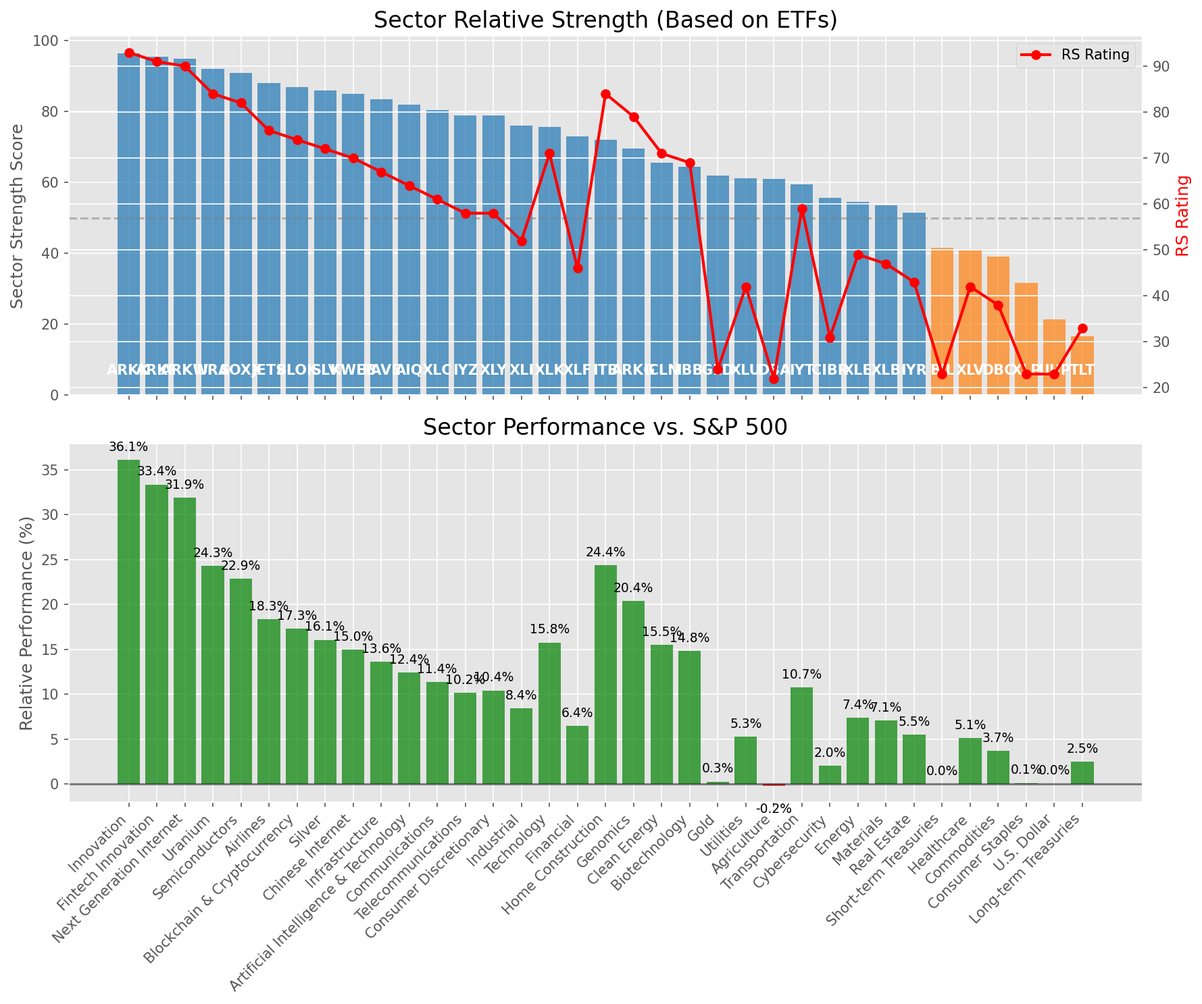
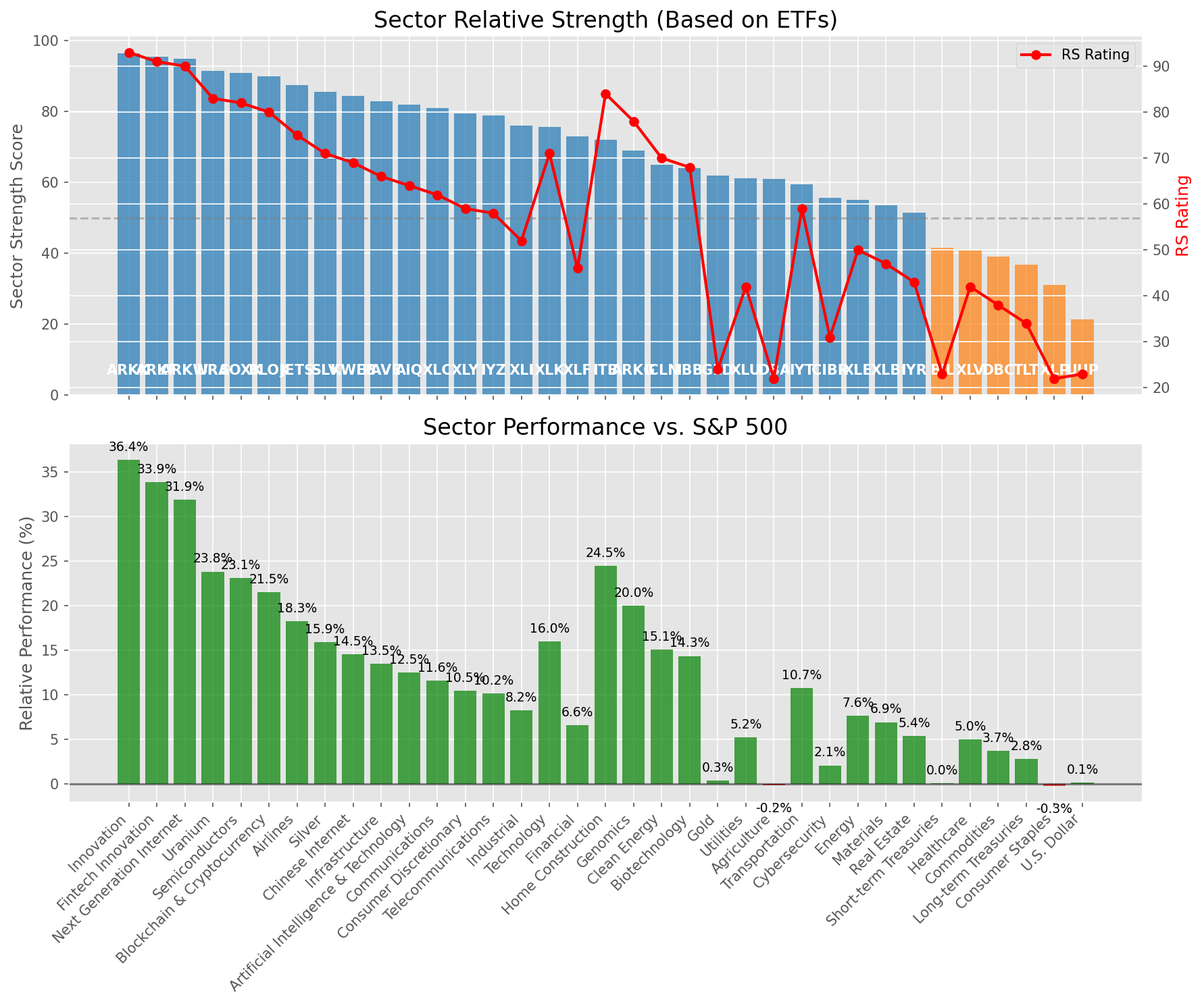
Add market report for 2025-08-25

diff --git a/oneil_relative_strength_report_2025-08-25.md b/oneil_relative_strength_report_2025-08-25.md
@@ -9,11 +9,11 @@
 | Metric | Value |
 |--------|-------|
 | **Market Valuation** | **Overvalued** |
-| **Current Ratio** | 10.47 |
+| **Current Ratio** | 10.48 |
 | **Historical Mean** | 9.89 |
 | **Standard Deviation** | 0.40 |
 | **Z-Score (StdDev from Mean)** | 1.49 |
-| **Total Market Cap** | $317.55 trillion |
+| **Total Market Cap** | $317.78 trillion |
 | **GDP** | $30.33 trillion |
 
 ## **Market Insights**
@@ -49,41 +49,41 @@ Based on William O'Neil's Relative Strength Methodology
 
 | ETF | Strength | RS Rating | Performance | Above Key MAs | Trend | Sector |
 |-----|----------|-----------|-------------|--------------|-------|--------|
-| [ARKK](https://www.tradingview.com/chart/?symbol=ARKK) | 96.5 | 93.0 | 36.13% | 10d ✓, 50d ✓, 200d ✓ | ↗ | Innovation |
-| [ARKF](https://www.tradingview.com/chart/?symbol=ARKF) | 95.5 | 91.0 | 33.37% | 10d ✓, 50d ✓, 200d ✓ | ↗ | Fintech Innovation |
+| [ARKK](https://www.tradingview.com/chart/?symbol=ARKK) | 96.5 | 93.0 | 36.40% | 10d ✓, 50d ✓, 200d ✓ | ↗ | Innovation |
+| [ARKF](https://www.tradingview.com/chart/?symbol=ARKF) | 95.5 | 91.0 | 33.91% | 10d ✓, 50d ✓, 200d ✓ | ↗ | Fintech Innovation |
 | [ARKW](https://www.tradingview.com/chart/?symbol=ARKW) | 95.0 | 90.0 | 31.90% | 10d ✓, 50d ✓, 200d ✓ | ↗ | Next Generation Internet |
-| [URA](https://www.tradingview.com/chart/?symbol=URA) | 92.0 | 84.0 | 24.29% | 10d ✓, 50d ✓, 200d ✓ | ↗ | Uranium |
-| [SOXX](https://www.tradingview.com/chart/?symbol=SOXX) | 91.0 | 82.0 | 22.85% | 10d ✓, 50d ✓, 200d ✓ | ↗ | Semiconductors |
-| [JETS](https://www.tradingview.com/chart/?symbol=JETS) | 88.0 | 76.0 | 18.34% | 10d ✓, 50d ✓, 200d ✓ | ↗ | Airlines |
-| [BLOK](https://www.tradingview.com/chart/?symbol=BLOK) | 87.0 | 74.0 | 17.28% | 10d ✓, 50d ✓, 200d ✓ | ↗ | Blockchain & Cryptocurrency |
-| [SLV](https://www.tradingview.com/chart/?symbol=SLV) | 86.0 | 72.0 | 16.06% | 10d ✓, 50d ✓, 200d ✓ | ↗ | Silver |
-| [KWEB](https://www.tradingview.com/chart/?symbol=KWEB) | 85.0 | 70.0 | 14.99% | 10d ✓, 50d ✓, 200d ✓ | ↗ | Chinese Internet |
-| [PAVE](https://www.tradingview.com/chart/?symbol=PAVE) | 83.5 | 67.0 | 13.59% | 10d ✓, 50d ✓, 200d ✓ | ↗ | Infrastructure |
-| [AIQ](https://www.tradingview.com/chart/?symbol=AIQ) | 82.0 | 64.0 | 12.42% | 10d ✓, 50d ✓, 200d ✓ | ↗ | Artificial Intelligence & Technology |
-| [XLC](https://www.tradingview.com/chart/?symbol=XLC) | 80.5 | 61.0 | 11.36% | 10d ✓, 50d ✓, 200d ✓ | ↗ | Communications |
+| [URA](https://www.tradingview.com/chart/?symbol=URA) | 91.5 | 83.0 | 23.83% | 10d ✓, 50d ✓, 200d ✓ | ↗ | Uranium |
+| [SOXX](https://www.tradingview.com/chart/?symbol=SOXX) | 91.0 | 82.0 | 23.08% | 10d ✓, 50d ✓, 200d ✓ | ↗ | Semiconductors |
+| [BLOK](https://www.tradingview.com/chart/?symbol=BLOK) | 90.0 | 80.0 | 21.51% | 10d ✓, 50d ✓, 200d ✓ | ↗ | Blockchain & Cryptocurrency |
+| [JETS](https://www.tradingview.com/chart/?symbol=JETS) | 87.5 | 75.0 | 18.27% | 10d ✓, 50d ✓, 200d ✓ | ↗ | Airlines |
+| [SLV](https://www.tradingview.com/chart/?symbol=SLV) | 85.5 | 71.0 | 15.88% | 10d ✓, 50d ✓, 200d ✓ | ↗ | Silver |
+| [KWEB](https://www.tradingview.com/chart/?symbol=KWEB) | 84.5 | 69.0 | 14.53% | 10d ✓, 50d ✓, 200d ✓ | ↗ | Chinese Internet |
+| [PAVE](https://www.tradingview.com/chart/?symbol=PAVE) | 83.0 | 66.0 | 13.46% | 10d ✓, 50d ✓, 200d ✓ | ↗ | Infrastructure |
+| [AIQ](https://www.tradingview.com/chart/?symbol=AIQ) | 82.0 | 64.0 | 12.49% | 10d ✓, 50d ✓, 200d ✓ | ↗ | Artificial Intelligence & Technology |
+| [XLC](https://www.tradingview.com/chart/?symbol=XLC) | 81.0 | 62.0 | 11.60% | 10d ✓, 50d ✓, 200d ✓ | ↗ | Communications |
+| [XLY](https://www.tradingview.com/chart/?symbol=XLY) | 79.5 | 59.0 | 10.46% | 10d ✓, 50d ✓, 200d ✓ | ↗ | Consumer Discretionary |
 | [IYZ](https://www.tradingview.com/chart/?symbol=IYZ) | 79.0 | 58.0 | 10.16% | 10d ✓, 50d ✓, 200d ✓ | ↗ | Telecommunications |
-| [XLY](https://www.tradingview.com/chart/?symbol=XLY) | 79.0 | 58.0 | 10.42% | 10d ✓, 50d ✓, 200d ✓ | ↗ | Consumer Discretionary |
-| [XLI](https://www.tradingview.com/chart/?symbol=XLI) | 76.0 | 52.0 | 8.45% | 10d ✓, 50d ✓, 200d ✓ | ↗ | Industrial |
-| [XLK](https://www.tradingview.com/chart/?symbol=XLK) | 75.6 | 71.0 | 15.76% | 10d ✗, 50d ✓, 200d ✓ | ↗ | Technology |
-| [XLF](https://www.tradingview.com/chart/?symbol=XLF) | 73.0 | 46.0 | 6.44% | 10d ✓, 50d ✓, 200d ✓ | ↗ | Financial |
-| [ITB](https://www.tradingview.com/chart/?symbol=ITB) | 72.0 | 84.0 | 24.39% | 10d ✓, 50d ✓, 200d ✓ | ↘ | Home Construction |
-| [ARKG](https://www.tradingview.com/chart/?symbol=ARKG) | 69.5 | 79.0 | 20.36% | 10d ✓, 50d ✓, 200d ✓ | ↘ | Genomics |
-| [ICLN](https://www.tradingview.com/chart/?symbol=ICLN) | 65.5 | 71.0 | 15.50% | 10d ✓, 50d ✓, 200d ✓ | ↘ | Clean Energy |
-| [IBB](https://www.tradingview.com/chart/?symbol=IBB) | 64.5 | 69.0 | 14.81% | 10d ✓, 50d ✓, 200d ✓ | ↘ | Biotechnology |
-| [GLD](https://www.tradingview.com/chart/?symbol=GLD) | 62.0 | 24.0 | 0.27% | 10d ✓, 50d ✓, 200d ✓ | ↗ | Gold |
-| [XLU](https://www.tradingview.com/chart/?symbol=XLU) | 61.1 | 42.0 | 5.27% | 10d ✗, 50d ✓, 200d ✓ | ↗ | Utilities |
+| [XLI](https://www.tradingview.com/chart/?symbol=XLI) | 76.0 | 52.0 | 8.22% | 10d ✓, 50d ✓, 200d ✓ | ↗ | Industrial |
+| [XLK](https://www.tradingview.com/chart/?symbol=XLK) | 75.6 | 71.0 | 15.99% | 10d ✗, 50d ✓, 200d ✓ | ↗ | Technology |
+| [XLF](https://www.tradingview.com/chart/?symbol=XLF) | 73.0 | 46.0 | 6.60% | 10d ✓, 50d ✓, 200d ✓ | ↗ | Financial |
+| [ITB](https://www.tradingview.com/chart/?symbol=ITB) | 72.0 | 84.0 | 24.48% | 10d ✓, 50d ✓, 200d ✓ | ↘ | Home Construction |
+| [ARKG](https://www.tradingview.com/chart/?symbol=ARKG) | 69.0 | 78.0 | 19.98% | 10d ✓, 50d ✓, 200d ✓ | ↘ | Genomics |
+| [ICLN](https://www.tradingview.com/chart/?symbol=ICLN) | 65.0 | 70.0 | 15.06% | 10d ✓, 50d ✓, 200d ✓ | ↘ | Clean Energy |
+| [IBB](https://www.tradingview.com/chart/?symbol=IBB) | 64.0 | 68.0 | 14.34% | 10d ✓, 50d ✓, 200d ✓ | ↘ | Biotechnology |
+| [GLD](https://www.tradingview.com/chart/?symbol=GLD) | 62.0 | 24.0 | 0.32% | 10d ✓, 50d ✓, 200d ✓ | ↗ | Gold |
+| [XLU](https://www.tradingview.com/chart/?symbol=XLU) | 61.1 | 42.0 | 5.21% | 10d ✗, 50d ✓, 200d ✓ | ↗ | Utilities |
 | [DBA](https://www.tradingview.com/chart/?symbol=DBA) | 61.0 | 22.0 | -0.22% | 10d ✓, 50d ✓, 200d ✓ | ↗ | Agriculture |
 | [IYT](https://www.tradingview.com/chart/?symbol=IYT) | 59.5 | 59.0 | 10.75% | 10d ✓, 50d ✓, 200d ✓ | ↘ | Transportation |
-| [CIBR](https://www.tradingview.com/chart/?symbol=CIBR) | 55.6 | 31.0 | 2.03% | 10d ✓, 50d ✗, 200d ✓ | ↗ | Cybersecurity |
-| [XLE](https://www.tradingview.com/chart/?symbol=XLE) | 54.5 | 49.0 | 7.39% | 10d ✓, 50d ✓, 200d ✓ | ↘ | Energy |
-| [XLB](https://www.tradingview.com/chart/?symbol=XLB) | 53.5 | 47.0 | 7.07% | 10d ✓, 50d ✓, 200d ✓ | ↘ | Materials |
-| [IYR](https://www.tradingview.com/chart/?symbol=IYR) | 51.5 | 43.0 | 5.48% | 10d ✓, 50d ✓, 200d ✓ | ↘ | Real Estate |
+| [CIBR](https://www.tradingview.com/chart/?symbol=CIBR) | 55.6 | 31.0 | 2.05% | 10d ✓, 50d ✗, 200d ✓ | ↗ | Cybersecurity |
+| [XLE](https://www.tradingview.com/chart/?symbol=XLE) | 55.0 | 50.0 | 7.61% | 10d ✓, 50d ✓, 200d ✓ | ↘ | Energy |
+| [XLB](https://www.tradingview.com/chart/?symbol=XLB) | 53.5 | 47.0 | 6.91% | 10d ✓, 50d ✓, 200d ✓ | ↘ | Materials |
+| [IYR](https://www.tradingview.com/chart/?symbol=IYR) | 51.5 | 43.0 | 5.37% | 10d ✓, 50d ✓, 200d ✓ | ↘ | Real Estate |
 | [BIL](https://www.tradingview.com/chart/?symbol=BIL) | 41.5 | 23.0 | 0.01% | 10d ✓, 50d ✓, 200d ✓ | ↘ | Short-term Treasuries |
-| [XLV](https://www.tradingview.com/chart/?symbol=XLV) | 40.8 | 42.0 | 5.14% | 10d ✓, 50d ✓, 200d ✗ | ↘ | Healthcare |
+| [XLV](https://www.tradingview.com/chart/?symbol=XLV) | 40.8 | 42.0 | 4.98% | 10d ✓, 50d ✓, 200d ✗ | ↘ | Healthcare |
 | [DBC](https://www.tradingview.com/chart/?symbol=DBC) | 39.1 | 38.0 | 3.71% | 10d ✓, 50d ✗, 200d ✓ | ↘ | Commodities |
-| [XLP](https://www.tradingview.com/chart/?symbol=XLP) | 31.6 | 23.0 | 0.12% | 10d ✗, 50d ✓, 200d ✓ | ↘ | Consumer Staples |
-| [UUP](https://www.tradingview.com/chart/?symbol=UUP) | 21.4 | 23.0 | 0.04% | 10d ✗, 50d ✓, 200d ✗ | ↘ | U.S. Dollar |
-| [TLT](https://www.tradingview.com/chart/?symbol=TLT) | 16.5 | 33.0 | 2.50% | 10d ✗, 50d ✗, 200d ✗ | ↘ | Long-term Treasuries |
+| [TLT](https://www.tradingview.com/chart/?symbol=TLT) | 36.8 | 34.0 | 2.79% | 10d ✓, 50d ✓, 200d ✗ | ↘ | Long-term Treasuries |
+| [XLP](https://www.tradingview.com/chart/?symbol=XLP) | 31.1 | 22.0 | -0.26% | 10d ✗, 50d ✓, 200d ✓ | ↘ | Consumer Staples |
+| [UUP](https://www.tradingview.com/chart/?symbol=UUP) | 21.4 | 23.0 | 0.15% | 10d ✗, 50d ✓, 200d ✗ | ↘ | U.S. Dollar |
 
 ### **Sector ETF Performance Interpretation**
 
@@ -100,184 +100,181 @@ This table shows the relative strength metrics for different market sectors base
 
 The current market leadership is coming from the following sectors: **Innovation, Fintech Innovation, Next Generation Internet**.
 
-The **Innovation** sector (represented by **ARKK**) is showing particularly strong relative strength with an RS rating of 93.0 and performance of 36.13% vs. the S&P 500. This sector is trading above its 10-day, 50-day, 200-day moving average(s). Investors should consider focusing on high RS stocks within these leading sectors for potential outperformance.
+The **Innovation** sector (represented by **ARKK**) is showing particularly strong relative strength with an RS rating of 93.0 and performance of 36.40% vs. the S&P 500. This sector is trading above its 10-day, 50-day, 200-day moving average(s). Investors should consider focusing on high RS stocks within these leading sectors for potential outperformance.
 
 ---
 
 ## **Buy Recommendations**
 
-The following 49 stocks show exceptional relative strength:
+The following 47 stocks show exceptional relative strength:
 
 | RS Rating | Buy Score | Current Price | Chart | Name | Ticker |
 |-----------|-----------|---------------|-------|------|--------|
-| 100 | 100 | $116.47 | [Chart](https://www.tradingview.com/chart/?symbol=CRDO) | Credo Technology Group Holding Ltd Ordinary Shares | CRDO |
-| 100 | 100 | $68.27 | [Chart](https://www.tradingview.com/chart/?symbol=KTOS) | Kratos Defense & Security Solutions, Inc. | KTOS |
-| 100 | 100 | $47.55 | [Chart](https://www.tradingview.com/chart/?symbol=RKLB) | Rocket Lab Corporation Common Stock | RKLB |
-| 99 | 100 | $59.97 | [Chart](https://www.tradingview.com/chart/?symbol=TPC) | Tutor Perini Corporation | TPC |
-| 99 | 100 | $26.41 | [Chart](https://www.tradingview.com/chart/?symbol=LQDA) | Liquidia Corporation Common Stock | LQDA |
-| 99 | 100 | $196.26 | [Chart](https://www.tradingview.com/chart/?symbol=FUTU) | Futu Holdings Limited American Depositary Shares | FUTU |
+| 100 | 100 | $67.14 | [Chart](https://www.tradingview.com/chart/?symbol=KTOS) | Kratos Defense & Security Solutions, Inc. | KTOS |
+| 100 | 100 | $115.90 | [Chart](https://www.tradingview.com/chart/?symbol=CRDO) | Credo Technology Group Holding Ltd Ordinary Shares | CRDO |
+| 100 | 100 | $48.95 | [Chart](https://www.tradingview.com/chart/?symbol=RKLB) | Rocket Lab Corporation Common Stock | RKLB |
+| 99 | 100 | $195.40 | [Chart](https://www.tradingview.com/chart/?symbol=FUTU) | Futu Holdings Limited American Depositary Shares | FUTU |
+| 99 | 100 | $60.18 | [Chart](https://www.tradingview.com/chart/?symbol=CELH) | Celsius Holdings, Inc. Common Stock | CELH |
+| 99 | 100 | $59.09 | [Chart](https://www.tradingview.com/chart/?symbol=TPC) | Tutor Perini Corporation | TPC |
+| 99 | 100 | $26.78 | [Chart](https://www.tradingview.com/chart/?symbol=LQDA) | Liquidia Corporation Common Stock | LQDA |
 | 98 | 100 | $198.98 | [Chart](https://www.tradingview.com/chart/?symbol=COOP) | Mr. Cooper Group Inc. Common Stock | COOP |
-| 98 | 100 | $44.89 | [Chart](https://www.tradingview.com/chart/?symbol=TTMI) | TTM Technologies Inc | TTMI |
-| 97 | 100 | $90.22 | [Chart](https://www.tradingview.com/chart/?symbol=LIF) | Life360, Inc. Common Stock | LIF |
-| 97 | 100 | $125.81 | [Chart](https://www.tradingview.com/chart/?symbol=RBLX) | Roblox Corporation | RBLX |
-| 96 | 100 | $346.32 | [Chart](https://www.tradingview.com/chart/?symbol=RCL) | Royal Caribbean Group | RCL |
+| 98 | 100 | $44.74 | [Chart](https://www.tradingview.com/chart/?symbol=TTMI) | TTM Technologies Inc | TTMI |
+| 98 | 100 | $126.97 | [Chart](https://www.tradingview.com/chart/?symbol=RBLX) | Roblox Corporation | RBLX |
+| 96 | 100 | $90.01 | [Chart](https://www.tradingview.com/chart/?symbol=LIF) | Life360, Inc. Common Stock | LIF |
 | 96 | 100 | $34.18 | [Chart](https://www.tradingview.com/chart/?symbol=CPS) | Cooper-Standard Automotive Inc. | CPS |
+| 95 | 100 | $346.56 | [Chart](https://www.tradingview.com/chart/?symbol=RCL) | Royal Caribbean Group | RCL |
 | 95 | 100 | $66.83 | [Chart](https://www.tradingview.com/chart/?symbol=MRCY) | Mercury Systems Inc. | MRCY |
 | 94 | 100 | $56.59 | [Chart](https://www.tradingview.com/chart/?symbol=BBW) | Build-A-Bear Workshop, Inc. | BBW |
-| 94 | 100 | $32.11 | [Chart](https://www.tradingview.com/chart/?symbol=GFI) | Gold Fields Ltd ADR | GFI |
-| 94 | 100 | $60.44 | [Chart](https://www.tradingview.com/chart/?symbol=VIK) | Viking Holdings Ltd | VIK |
-| 93 | 100 | $37.41 | [Chart](https://www.tradingview.com/chart/?symbol=DB) | Deutsche Bank Aktiengesellschaft | DB |
+| 94 | 100 | $31.82 | [Chart](https://www.tradingview.com/chart/?symbol=GFI) | Gold Fields Ltd ADR | GFI |
+| 94 | 100 | $60.70 | [Chart](https://www.tradingview.com/chart/?symbol=VIK) | Viking Holdings Ltd | VIK |
+| 94 | 100 | $116.19 | [Chart](https://www.tradingview.com/chart/?symbol=SANM) | Sanmina  Corp | SANM |
 | 93 | 100 | $98.91 | [Chart](https://www.tradingview.com/chart/?symbol=TPB) | Turning Point Brands, Inc. | TPB |
-| 92 | 100 | $32.68 | [Chart](https://www.tradingview.com/chart/?symbol=PAAS) | Pan American Silver Corp. | PAAS |
-| 92 | 100 | $30.27 | [Chart](https://www.tradingview.com/chart/?symbol=ACMR) | ACM Research, Inc. Class A Common Stock | ACMR |
-| 92 | 100 | $32.08 | [Chart](https://www.tradingview.com/chart/?symbol=SRAD) | Sportradar Group AG Class A Ordinary Shares | SRAD |
-| 91 | 100 | $23.05 | [Chart](https://www.tradingview.com/chart/?symbol=BZ) | KANZHUN LIMITED American Depository Shares | BZ |
+| 93 | 100 | $37.30 | [Chart](https://www.tradingview.com/chart/?symbol=DB) | Deutsche Bank Aktiengesellschaft | DB |
+| 92 | 100 | $32.48 | [Chart](https://www.tradingview.com/chart/?symbol=PAAS) | Pan American Silver Corp. | PAAS |
 | 91 | 100 | $75.38 | [Chart](https://www.tradingview.com/chart/?symbol=WNS) | WNS (Holdings) Limited | WNS |
-| 91 | 100 | $54.12 | [Chart](https://www.tradingview.com/chart/?symbol=ARKF) | ARK Fintech Innovation ETF | ARKF |
+| 91 | 100 | $29.95 | [Chart](https://www.tradingview.com/chart/?symbol=ACMR) | ACM Research, Inc. Class A Common Stock | ACMR |
+| 91 | 100 | $54.34 | [Chart](https://www.tradingview.com/chart/?symbol=ARKF) | ARK Fintech Innovation ETF | ARKF |
+| 91 | 100 | $31.86 | [Chart](https://www.tradingview.com/chart/?symbol=SRAD) | Sportradar Group AG Class A Ordinary Shares | SRAD |
 | 90 | 100 | $158.31 | [Chart](https://www.tradingview.com/chart/?symbol=ARKW) | ARK Next Generation Internet ETF | ARKW |
-| 89 | 100 | $95.13 | [Chart](https://www.tradingview.com/chart/?symbol=C) | Citigroup Inc. | C |
+| 89 | 100 | $95.41 | [Chart](https://www.tradingview.com/chart/?symbol=C) | Citigroup Inc. | C |
 | 88 | 100 | $167.00 | [Chart](https://www.tradingview.com/chart/?symbol=VSEC) | VSE Corp | VSEC |
-| 88 | 100 | $58.31 | [Chart](https://www.tradingview.com/chart/?symbol=BTI) | British American Tobacco p.l.c. American Depositary Shares, American Depositary Shares, each representing one Ordinary Share | BTI |
-| 87 | 100 | $48.17 | [Chart](https://www.tradingview.com/chart/?symbol=LTM) | LATAM Airlines Group S.A. American Depositary Shares (each representing two thousand (2,000) shares of Common Stock) | LTM |
-| 90 | 99 | $17.45 | [Chart](https://www.tradingview.com/chart/?symbol=ARLO) | Arlo Technologies, Inc. | ARLO |
-| 88 | 98 | $55.38 | [Chart](https://www.tradingview.com/chart/?symbol=SIL) | Global X Silver Miners ETF (NEW) | SIL |
-| 87 | 98 | $24.11 | [Chart](https://www.tradingview.com/chart/?symbol=EYE) | National Vision Holdings, Inc. Common Stock | EYE |
+| 87 | 100 | $48.01 | [Chart](https://www.tradingview.com/chart/?symbol=LTM) | LATAM Airlines Group S.A. American Depositary Shares (each representing two thousand (2,000) shares of Common Stock) | LTM |
+| 88 | 99 | $24.23 | [Chart](https://www.tradingview.com/chart/?symbol=EYE) | National Vision Holdings, Inc. Common Stock | EYE |
+| 87 | 99 | $57.97 | [Chart](https://www.tradingview.com/chart/?symbol=BTI) | British American Tobacco p.l.c. American Depositary Shares, American Depositary Shares, each representing one Ordinary Share | BTI |
+| 89 | 98 | $17.38 | [Chart](https://www.tradingview.com/chart/?symbol=ARLO) | Arlo Technologies, Inc. | ARLO |
+| 89 | 98 | $22.80 | [Chart](https://www.tradingview.com/chart/?symbol=BZ) | KANZHUN LIMITED American Depository Shares | BZ |
+| 88 | 98 | $55.16 | [Chart](https://www.tradingview.com/chart/?symbol=SIL) | Global X Silver Miners ETF (NEW) | SIL |
 | 85 | 98 | $51.19 | [Chart](https://www.tradingview.com/chart/?symbol=RING) | iShares MSCI Global Gold Miners ETF | RING |
-| 86 | 97 | $23.71 | [Chart](https://www.tradingview.com/chart/?symbol=MAG) | MAG Silver Corp. | MAG |
-| 84 | 97 | $42.59 | [Chart](https://www.tradingview.com/chart/?symbol=AHR) | American Healthcare REIT, Inc. | AHR |
-| 86 | 96 | $197.24 | [Chart](https://www.tradingview.com/chart/?symbol=AWI) | Armstrong World Industries, Inc. | AWI |
+| 87 | 97 | $197.24 | [Chart](https://www.tradingview.com/chart/?symbol=AWI) | Armstrong World Industries, Inc. | AWI |
+| 86 | 97 | $23.58 | [Chart](https://www.tradingview.com/chart/?symbol=MAG) | MAG Silver Corp. | MAG |
+| 84 | 97 | $42.66 | [Chart](https://www.tradingview.com/chart/?symbol=AHR) | American Healthcare REIT, Inc. | AHR |
+| 86 | 96 | $449.37 | [Chart](https://www.tradingview.com/chart/?symbol=APP) | Applovin Corporation Class A Common Stock | APP |
 | 86 | 96 | $31.63 | [Chart](https://www.tradingview.com/chart/?symbol=IIIV) | i3 Verticals, Inc. Class A Common Stock | IIIV |
 | 84 | 96 | $95.06 | [Chart](https://www.tradingview.com/chart/?symbol=LLYVK) | Liberty Media Corporation Series C Liberty Live Common Stock | LLYVK |
-| 84 | 96 | $30.87 | [Chart](https://www.tradingview.com/chart/?symbol=OR) | OR Royalties Inc. | OR |
-| 85 | 95 | $123.98 | [Chart](https://www.tradingview.com/chart/?symbol=PPLT) | abrdn Physical Platinum Shares ETF | PPLT |
 | 85 | 95 | $53.53 | [Chart](https://www.tradingview.com/chart/?symbol=FHI) | Federated Hermes, Inc. | FHI |
-| 85 | 95 | $445.18 | [Chart](https://www.tradingview.com/chart/?symbol=APP) | Applovin Corporation Class A Common Stock | APP |
-| 84 | 95 | $26.34 | [Chart](https://www.tradingview.com/chart/?symbol=TFPM) | Triple Flag Precious Metals Corp. | TFPM |
+| 85 | 95 | $123.98 | [Chart](https://www.tradingview.com/chart/?symbol=PPLT) | abrdn Physical Platinum Shares ETF | PPLT |
 | 84 | 95 | $255.01 | [Chart](https://www.tradingview.com/chart/?symbol=BAP) | Credicorp LTD | BAP |
 | 84 | 94 | $58.46 | [Chart](https://www.tradingview.com/chart/?symbol=CALX) | CALIX, INC. | CALX |
-| 83 | 93 | $50.30 | [Chart](https://www.tradingview.com/chart/?symbol=FAST) | Fastenal Co | FAST |
-| 81 | 93 | $36.34 | [Chart](https://www.tradingview.com/chart/?symbol=ATRO) | Astronics Corp | ATRO |
-| 81 | 91 | $16.00 | [Chart](https://www.tradingview.com/chart/?symbol=EZPW) | Ezcorp Inc | EZPW |
-| 80 | 90 | $19.90 | [Chart](https://www.tradingview.com/chart/?symbol=DAN) | Dana Incorporated | DAN |
+| 83 | 93 | $50.27 | [Chart](https://www.tradingview.com/chart/?symbol=FAST) | Fastenal Co | FAST |
+| 80 | 90 | $19.89 | [Chart](https://www.tradingview.com/chart/?symbol=DAN) | Dana Incorporated | DAN |
 
 ---
 
 
 ## **Sell Recommendations**
 
-The following 109 stocks show deteriorating relative strength:
+The following 108 stocks show deteriorating relative strength:
 
 | RS Rating | Sell Score | Current Price | Chart | Name | Ticker |
 |-----------|------------|---------------|-------|------|--------|
-| 1 | 100 | $24.16 | [Chart](https://www.tradingview.com/chart/?symbol=TECS) | Direxion Daily Technology Bear 3x Shares | TECS |
+| 1 | 100 | $24.02 | [Chart](https://www.tradingview.com/chart/?symbol=TECS) | Direxion Daily Technology Bear 3x Shares | TECS |
+| 1 | 100 | $94.23 | [Chart](https://www.tradingview.com/chart/?symbol=INSP) | Inspire Medical Systems, Inc. | INSP |
+| 2 | 100 | $17.39 | [Chart](https://www.tradingview.com/chart/?symbol=DJT) | Trump Media & Technology Group Corp. Common Stock | DJT |
 | 2 | 100 | $36.40 | [Chart](https://www.tradingview.com/chart/?symbol=TWM) | ProShares UltraShort Russell2000 | TWM |
-| 2 | 100 | $11.94 | [Chart](https://www.tradingview.com/chart/?symbol=ACVA) | ACV Auctions Inc. | ACVA |
-| 2 | 100 | $15.19 | [Chart](https://www.tradingview.com/chart/?symbol=SPT) | Sprout Social, Inc Class A Common Stock | SPT |
-| 2 | 100 | $17.38 | [Chart](https://www.tradingview.com/chart/?symbol=DJT) | Trump Media & Technology Group Corp. Common Stock | DJT |
+| 2 | 100 | $14.80 | [Chart](https://www.tradingview.com/chart/?symbol=SPT) | Sprout Social, Inc Class A Common Stock | SPT |
 | 2 | 100 | $22.07 | [Chart](https://www.tradingview.com/chart/?symbol=ZSL) | ProShares UltraShort Silver | ZSL |
 | 2 | 100 | $15.60 | [Chart](https://www.tradingview.com/chart/?symbol=KRNT) | Kornit Digital Ltd. | KRNT |
-| 3 | 100 | $35.10 | [Chart](https://www.tradingview.com/chart/?symbol=IOT) | Samsara Inc. | IOT |
+| 2 | 100 | $12.01 | [Chart](https://www.tradingview.com/chart/?symbol=ACVA) | ACV Auctions Inc. | ACVA |
 | 3 | 100 | $38.20 | [Chart](https://www.tradingview.com/chart/?symbol=SDOW) | ProShares UltraPro Short Dow 30 | SDOW |
 | 3 | 100 | $22.22 | [Chart](https://www.tradingview.com/chart/?symbol=CLW) | Clearwater Paper Corporation | CLW |
-| 3 | 100 | $26.89 | [Chart](https://www.tradingview.com/chart/?symbol=BRZE) | Braze, Inc. Class A Common Stock | BRZE |
-| 4 | 100 | $46.61 | [Chart](https://www.tradingview.com/chart/?symbol=EXAS) | Exact Sciences Corp | EXAS |
-| 5 | 100 | $16.64 | [Chart](https://www.tradingview.com/chart/?symbol=S) | SentinelOne, Inc. | S |
-| 5 | 100 | $68.22 | [Chart](https://www.tradingview.com/chart/?symbol=EMN) | Eastman Chemical Company | EMN |
-| 5 | 100 | $16.66 | [Chart](https://www.tradingview.com/chart/?symbol=SCO) | ProShares UltraShort Bloomberg Crude Oil | SCO |
-| 5 | 100 | $26.40 | [Chart](https://www.tradingview.com/chart/?symbol=CRI) | Carter's Inc. | CRI |
-| 8 | 100 | $11.80 | [Chart](https://www.tradingview.com/chart/?symbol=CHPT) | ChargePoint Holdings, Inc. | CHPT |
-| 8 | 100 | $11.04 | [Chart](https://www.tradingview.com/chart/?symbol=PATH) | UiPath, Inc. | PATH |
-| 8 | 100 | $363.69 | [Chart](https://www.tradingview.com/chart/?symbol=ADBE) | Adobe Inc. | ADBE |
-| 9 | 100 | $38.47 | [Chart](https://www.tradingview.com/chart/?symbol=SH) | ProShares Short S&P500 | SH |
+| 3 | 100 | $26.35 | [Chart](https://www.tradingview.com/chart/?symbol=BRZE) | Braze, Inc. Class A Common Stock | BRZE |
+| 3 | 100 | $35.15 | [Chart](https://www.tradingview.com/chart/?symbol=IOT) | Samsara Inc. | IOT |
+| 4 | 100 | $46.55 | [Chart](https://www.tradingview.com/chart/?symbol=EXAS) | Exact Sciences Corp | EXAS |
+| 5 | 100 | $26.48 | [Chart](https://www.tradingview.com/chart/?symbol=CRI) | Carter's Inc. | CRI |
+| 5 | 100 | $16.66 | [Chart](https://www.tradingview.com/chart/?symbol=S) | SentinelOne, Inc. | S |
+| 5 | 100 | $11.75 | [Chart](https://www.tradingview.com/chart/?symbol=CHPT) | ChargePoint Holdings, Inc. | CHPT |
+| 7 | 100 | $23.70 | [Chart](https://www.tradingview.com/chart/?symbol=EPC) | Edgewell Personal Care Company | EPC |
+| 8 | 100 | $21.19 | [Chart](https://www.tradingview.com/chart/?symbol=ERY) | Direxion Daily Energy Bear 2X Shares | ERY |
+| 8 | 100 | $363.81 | [Chart](https://www.tradingview.com/chart/?symbol=ADBE) | Adobe Inc. | ADBE |
+| 9 | 100 | $38.44 | [Chart](https://www.tradingview.com/chart/?symbol=SH) | ProShares Short S&P500 | SH |
 | 10 | 100 | $60.03 | [Chart](https://www.tradingview.com/chart/?symbol=ATKR) | Atkore Inc. | ATKR |
-| 10 | 100 | $41.33 | [Chart](https://www.tradingview.com/chart/?symbol=LINE) | Lineage, Inc. Common Stock | LINE |
-| 10 | 100 | $12.35 | [Chart](https://www.tradingview.com/chart/?symbol=BSM) | Black Stone Minerals, L.P. | BSM |
-| 13 | 100 | $15.12 | [Chart](https://www.tradingview.com/chart/?symbol=CHCT) | Community Healthcare Trust Incorporated Common Stock, $0.01 par value per share | CHCT |
+| 11 | 100 | $41.36 | [Chart](https://www.tradingview.com/chart/?symbol=LINE) | Lineage, Inc. Common Stock | LINE |
+| 11 | 100 | $12.35 | [Chart](https://www.tradingview.com/chart/?symbol=BSM) | Black Stone Minerals, L.P. | BSM |
+| 14 | 100 | $15.12 | [Chart](https://www.tradingview.com/chart/?symbol=CHCT) | Community Healthcare Trust Incorporated Common Stock, $0.01 par value per share | CHCT |
 | 15 | 100 | $16.95 | [Chart](https://www.tradingview.com/chart/?symbol=CTO) | CTO Realty Growth, Inc. | CTO |
-| 9 | 99 | $21.38 | [Chart](https://www.tradingview.com/chart/?symbol=KVUE) | Kenvue Inc. | KVUE |
-| 9 | 99 | $21.21 | [Chart](https://www.tradingview.com/chart/?symbol=ERY) | Direxion Daily Energy Bear 2X Shares | ERY |
-| 9 | 99 | $94.75 | [Chart](https://www.tradingview.com/chart/?symbol=CNI) | Canadian National Railway | CNI |
-| 11 | 98 | $10.00 | [Chart](https://www.tradingview.com/chart/?symbol=SPDN) | Direxion Daily S&P 500 Bear 1X Shares | SPDN |
-| 14 | 98 | $10.02 | [Chart](https://www.tradingview.com/chart/?symbol=NMZ) | Nuveen Municipal High Income Opportunity Fund | NMZ |
-| 15 | 98 | $109.44 | [Chart](https://www.tradingview.com/chart/?symbol=CPT) | Camden Property Trust | CPT |
-| 19 | 98 | $38.76 | [Chart](https://www.tradingview.com/chart/?symbol=UDR) | UDR, Inc. | UDR |
-| 3 | 97 | $46.25 | [Chart](https://www.tradingview.com/chart/?symbol=ONON) | On Holding AG | ONON |
-| 11 | 97 | $33.79 | [Chart](https://www.tradingview.com/chart/?symbol=TECK) | Teck Resources Limited | TECK |
-| 11 | 97 | $74.94 | [Chart](https://www.tradingview.com/chart/?symbol=OKE) | Oneok, Inc. | OKE |
-| 17 | 97 | $18.45 | [Chart](https://www.tradingview.com/chart/?symbol=LOVE) | The Lovesac Company Common Stock | LOVE |
+| 5 | 99 | $16.59 | [Chart](https://www.tradingview.com/chart/?symbol=SCO) | ProShares UltraShort Bloomberg Crude Oil | SCO |
+| 9 | 99 | $11.09 | [Chart](https://www.tradingview.com/chart/?symbol=PATH) | UiPath, Inc. | PATH |
+| 14 | 99 | $10.05 | [Chart](https://www.tradingview.com/chart/?symbol=NMZ) | Nuveen Municipal High Income Opportunity Fund | NMZ |
+| 16 | 99 | $108.58 | [Chart](https://www.tradingview.com/chart/?symbol=CPT) | Camden Property Trust | CPT |
+| 9 | 98 | $21.31 | [Chart](https://www.tradingview.com/chart/?symbol=KVUE) | Kenvue Inc. | KVUE |
+| 15 | 98 | $31.04 | [Chart](https://www.tradingview.com/chart/?symbol=PCVX) | Vaxcyte, Inc. Common Stock | PCVX |
+| 19 | 98 | $38.70 | [Chart](https://www.tradingview.com/chart/?symbol=UDR) | UDR, Inc. | UDR |
+| 3 | 97 | $10.47 | [Chart](https://www.tradingview.com/chart/?symbol=CEPU) | Central Puerto S.A. American Depositary Shares (each represents ten Common Shares) | CEPU |
+| 10 | 97 | $94.87 | [Chart](https://www.tradingview.com/chart/?symbol=CNI) | Canadian National Railway | CNI |
+| 11 | 97 | $74.85 | [Chart](https://www.tradingview.com/chart/?symbol=OKE) | Oneok, Inc. | OKE |
+| 11 | 97 | $33.56 | [Chart](https://www.tradingview.com/chart/?symbol=TECK) | Teck Resources Limited | TECK |
 | 18 | 97 | $20.11 | [Chart](https://www.tradingview.com/chart/?symbol=AVBP) | ArriVent BioPharma, Inc. Common Stock | AVBP |
-| 4 | 96 | $145.69 | [Chart](https://www.tradingview.com/chart/?symbol=GDDY) | GoDaddy Inc | GDDY |
-| 8 | 96 | $32.79 | [Chart](https://www.tradingview.com/chart/?symbol=PSQ) | ProShares Short QQQ | PSQ |
+| 4 | 96 | $46.38 | [Chart](https://www.tradingview.com/chart/?symbol=ONON) | On Holding AG | ONON |
 | 10 | 96 | $786.47 | [Chart](https://www.tradingview.com/chart/?symbol=EQIX) | Equinix, Inc. Common Stock REIT | EQIX |
-| 14 | 96 | $32.29 | [Chart](https://www.tradingview.com/chart/?symbol=PCVX) | Vaxcyte, Inc. Common Stock | PCVX |
 | 15 | 96 | $34.91 | [Chart](https://www.tradingview.com/chart/?symbol=RGR) | Sturm, Ruger & Company, Inc. | RGR |
-| 7 | 95 | $79.85 | [Chart](https://www.tradingview.com/chart/?symbol=ESTC) | Elastic N.V. | ESTC |
-| 9 | 95 | $70.68 | [Chart](https://www.tradingview.com/chart/?symbol=FIS) | Fidelity National Information Services, Inc. | FIS |
-| 10 | 95 | $208.52 | [Chart](https://www.tradingview.com/chart/?symbol=MMC) | Marsh & McLennan Companies, Inc. | MMC |
-| 11 | 95 | $24.92 | [Chart](https://www.tradingview.com/chart/?symbol=DOG) | ProShares Short Dow30 | DOG |
-| 6 | 94 | $18.10 | [Chart](https://www.tradingview.com/chart/?symbol=FSK) | FS KKR Capital Corp. Common Stock | FSK |
+| 17 | 96 | $18.45 | [Chart](https://www.tradingview.com/chart/?symbol=LOVE) | The Lovesac Company Common Stock | LOVE |
+| 6 | 95 | $29.30 | [Chart](https://www.tradingview.com/chart/?symbol=SMPL) | The Simply Good Foods Company Common Stock | SMPL |
+| 6 | 95 | $79.70 | [Chart](https://www.tradingview.com/chart/?symbol=ESTC) | Elastic N.V. | ESTC |
+| 10 | 95 | $28.95 | [Chart](https://www.tradingview.com/chart/?symbol=CNX) | CNX Resources Corporation | CNX |
+| 11 | 95 | $24.93 | [Chart](https://www.tradingview.com/chart/?symbol=DOG) | ProShares Short Dow30 | DOG |
+| 12 | 95 | $10.12 | [Chart](https://www.tradingview.com/chart/?symbol=SPDN) | Direxion Daily S&P 500 Bear 1X Shares | SPDN |
+| 16 | 95 | $22.31 | [Chart](https://www.tradingview.com/chart/?symbol=DIN) | Dine Brands Global, Inc. | DIN |
+| 16 | 95 | $92.32 | [Chart](https://www.tradingview.com/chart/?symbol=IRM) | Iron Mountain Inc. | IRM |
 | 8 | 94 | $26.68 | [Chart](https://www.tradingview.com/chart/?symbol=THR) | THERMON GROUP HOLDINGS, INC. | THR |
-| 10 | 94 | $25.30 | [Chart](https://www.tradingview.com/chart/?symbol=GDEN) | Golden Entertainment, Inc. Common Stock | GDEN |
-| 11 | 94 | $85.18 | [Chart](https://www.tradingview.com/chart/?symbol=CL) | Colgate-Palmolive Company | CL |
+| 10 | 94 | $208.75 | [Chart](https://www.tradingview.com/chart/?symbol=MMC) | Marsh & McLennan Companies, Inc. | MMC |
+| 11 | 94 | $84.71 | [Chart](https://www.tradingview.com/chart/?symbol=CL) | Colgate-Palmolive Company | CL |
 | 17 | 94 | $10.95 | [Chart](https://www.tradingview.com/chart/?symbol=MQY) | Blackrock Muni Yield Quality Fund, Inc | MQY |
-| 12 | 93 | $30.84 | [Chart](https://www.tradingview.com/chart/?symbol=INVH) | Invitation Homes Inc. Common Stock | INVH |
+| 10 | 93 | $71.10 | [Chart](https://www.tradingview.com/chart/?symbol=FIS) | Fidelity National Information Services, Inc. | FIS |
+| 11 | 93 | $25.30 | [Chart](https://www.tradingview.com/chart/?symbol=GDEN) | Golden Entertainment, Inc. Common Stock | GDEN |
+| 20 | 93 | $25.93 | [Chart](https://www.tradingview.com/chart/?symbol=MRNA) | Moderna, Inc. Common Stock | MRNA |
+| 13 | 92 | $30.84 | [Chart](https://www.tradingview.com/chart/?symbol=INVH) | Invitation Homes Inc. Common Stock | INVH |
 | 13 | 92 | $110.58 | [Chart](https://www.tradingview.com/chart/?symbol=ITGR) | Integer Holdings Corporation | ITGR |
-| 16 | 92 | $68.84 | [Chart](https://www.tradingview.com/chart/?symbol=HSIC) | Henry Schein Inc | HSIC |
 | 16 | 92 | $26.05 | [Chart](https://www.tradingview.com/chart/?symbol=FCPT) | Four Corners Property Trust, Inc. | FCPT |
+| 16 | 92 | $69.02 | [Chart](https://www.tradingview.com/chart/?symbol=HSIC) | Henry Schein Inc | HSIC |
 | 19 | 92 | $13.75 | [Chart](https://www.tradingview.com/chart/?symbol=OCSL) | Oaktree Specialty Lending Corporation | OCSL |
-| 22 | 92 | $26.20 | [Chart](https://www.tradingview.com/chart/?symbol=MRNA) | Moderna, Inc. Common Stock | MRNA |
 | 14 | 91 | $38.27 | [Chart](https://www.tradingview.com/chart/?symbol=APGE) | Apogee Therapeutics, Inc. Common Stock | APGE |
 | 17 | 91 | $193.62 | [Chart](https://www.tradingview.com/chart/?symbol=AVB) | AvalonBay Communities, Inc. | AVB |
-| 19 | 91 | $11.63 | [Chart](https://www.tradingview.com/chart/?symbol=NVG) | Nuveen AMT-Free Municipal Credit Income Fund | NVG |
-| 11 | 90 | $49.23 | [Chart](https://www.tradingview.com/chart/?symbol=DT) | Dynatrace, Inc. | DT |
+| 20 | 91 | $11.65 | [Chart](https://www.tradingview.com/chart/?symbol=NVG) | Nuveen AMT-Free Municipal Credit Income Fund | NVG |
+| 11 | 90 | $49.04 | [Chart](https://www.tradingview.com/chart/?symbol=DT) | Dynatrace, Inc. | DT |
 | 11 | 90 | $66.56 | [Chart](https://www.tradingview.com/chart/?symbol=CBZ) | CBIZ, Inc. | CBZ |
 | 12 | 90 | $15.75 | [Chart](https://www.tradingview.com/chart/?symbol=MCS) | The Marcus Corporation | MCS |
 | 17 | 90 | $75.66 | [Chart](https://www.tradingview.com/chart/?symbol=AWR) | American States Water Company | AWR |
-| 11 | 89 | $28.87 | [Chart](https://www.tradingview.com/chart/?symbol=CNX) | CNX Resources Corporation | CNX |
-| 18 | 89 | $45.18 | [Chart](https://www.tradingview.com/chart/?symbol=EPI) | WisdomTree India Earnings Fund ETF | EPI |
-| 19 | 89 | $93.86 | [Chart](https://www.tradingview.com/chart/?symbol=IRM) | Iron Mountain Inc. | IRM |
+| 19 | 90 | $40.54 | [Chart](https://www.tradingview.com/chart/?symbol=CUBE) | CubeSmart | CUBE |
+| 18 | 89 | $45.19 | [Chart](https://www.tradingview.com/chart/?symbol=EPI) | WisdomTree India Earnings Fund ETF | EPI |
+| 26 | 89 | $22.45 | [Chart](https://www.tradingview.com/chart/?symbol=CURB) | Curbline Properties Corp. | CURB |
 | 19 | 88 | $20.20 | [Chart](https://www.tradingview.com/chart/?symbol=KIDS) | OrthoPediatrics Corp. Common Stock | KIDS |
 | 20 | 88 | $26.77 | [Chart](https://www.tradingview.com/chart/?symbol=WKC) | World Kinect Corporation | WKC |
-| 28 | 88 | $22.62 | [Chart](https://www.tradingview.com/chart/?symbol=CURB) | Curbline Properties Corp. | CURB |
-| 14 | 87 | $62.67 | [Chart](https://www.tradingview.com/chart/?symbol=MDLZ) | Mondelez International, Inc. Class A | MDLZ |
+| 13 | 87 | $62.33 | [Chart](https://www.tradingview.com/chart/?symbol=MDLZ) | Mondelez International, Inc. Class A | MDLZ |
 | 19 | 87 | $82.51 | [Chart](https://www.tradingview.com/chart/?symbol=AGO) | Assured Guaranty, LTD | AGO |
-| 20 | 87 | $69.18 | [Chart](https://www.tradingview.com/chart/?symbol=PYPL) | PayPal Holdings, Inc. Common Stock | PYPL |
-| 21 | 87 | $144.87 | [Chart](https://www.tradingview.com/chart/?symbol=OLED) | Universal Display Corp | OLED |
-| 22 | 87 | $22.38 | [Chart](https://www.tradingview.com/chart/?symbol=DIN) | Dine Brands Global, Inc. | DIN |
-| 23 | 87 | $80.46 | [Chart](https://www.tradingview.com/chart/?symbol=IR) | Ingersoll Rand Inc. Common Stock | IR |
-| 16 | 86 | $18.23 | [Chart](https://www.tradingview.com/chart/?symbol=MAT) | Mattel, Inc. | MAT |
-| 23 | 86 | $31.06 | [Chart](https://www.tradingview.com/chart/?symbol=CNQ) | Canadian Natural Resources Limited | CNQ |
-| 21 | 85 | $41.09 | [Chart](https://www.tradingview.com/chart/?symbol=CUBE) | CubeSmart | CUBE |
+| 23 | 87 | $80.38 | [Chart](https://www.tradingview.com/chart/?symbol=IR) | Ingersoll Rand Inc. Common Stock | IR |
+| 16 | 86 | $32.19 | [Chart](https://www.tradingview.com/chart/?symbol=JD) | JD.com, Inc. | JD |
+| 16 | 86 | $18.27 | [Chart](https://www.tradingview.com/chart/?symbol=MAT) | Mattel, Inc. | MAT |
+| 20 | 86 | $14.77 | [Chart](https://www.tradingview.com/chart/?symbol=GBDC) | Golub Capital BDC, Inc. | GBDC |
+| 22 | 86 | $144.87 | [Chart](https://www.tradingview.com/chart/?symbol=OLED) | Universal Display Corp | OLED |
+| 23 | 86 | $31.05 | [Chart](https://www.tradingview.com/chart/?symbol=CNQ) | Canadian Natural Resources Limited | CNQ |
+| 20 | 85 | $165.97 | [Chart](https://www.tradingview.com/chart/?symbol=DLR) | Digital Realty Trust, Inc. | DLR |
+| 22 | 85 | $69.74 | [Chart](https://www.tradingview.com/chart/?symbol=PYPL) | PayPal Holdings, Inc. Common Stock | PYPL |
 | 25 | 85 | $23.34 | [Chart](https://www.tradingview.com/chart/?symbol=BSJQ) | Invesco BulletShares 2026 High Yield Corporate Bond ETF | BSJQ |
-| 17 | 84 | $10.32 | [Chart](https://www.tradingview.com/chart/?symbol=DVAX) | Dynavax Technologies Corporation | DVAX |
+| 16 | 84 | $27.14 | [Chart](https://www.tradingview.com/chart/?symbol=SARO) | StandardAero, Inc. | SARO |
 | 20 | 84 | $30.04 | [Chart](https://www.tradingview.com/chart/?symbol=AMAL) | Amalgamated Financial Corp. Common Stock (DE) | AMAL |
-| 21 | 84 | $167.06 | [Chart](https://www.tradingview.com/chart/?symbol=DLR) | Digital Realty Trust, Inc. | DLR |
 | 25 | 84 | $20.88 | [Chart](https://www.tradingview.com/chart/?symbol=BKLN) | Invesco Senior Loan ETF | BKLN |
-| 17 | 83 | $27.38 | [Chart](https://www.tradingview.com/chart/?symbol=SARO) | StandardAero, Inc. | SARO |
 | 18 | 83 | $222.87 | [Chart](https://www.tradingview.com/chart/?symbol=SBAC) | SBA Communications Corp | SBAC |
-| 21 | 83 | $210.82 | [Chart](https://www.tradingview.com/chart/?symbol=AMT) | American Tower Corporation | AMT |
-| 21 | 83 | $14.78 | [Chart](https://www.tradingview.com/chart/?symbol=GBDC) | Golub Capital BDC, Inc. | GBDC |
-| 22 | 83 | $23.05 | [Chart](https://www.tradingview.com/chart/?symbol=BSJP) | Invesco BulletShares 2025 High Yield Corporate Bond ETF | BSJP |
-| 37 | 82 | $48.07 | [Chart](https://www.tradingview.com/chart/?symbol=EDU) | New Oriental Education and Technology Group, Inc. American Depositary Shares (each representing ten (10) Common Shares) | EDU |
-| 23 | 81 | $49.16 | [Chart](https://www.tradingview.com/chart/?symbol=BNDX) | Vanguard Total International Bond ETF | BNDX |
-| 27 | 80 | $76.66 | [Chart](https://www.tradingview.com/chart/?symbol=AKAM) | Akamai Technologies Inc | AKAM |
+| 21 | 83 | $210.22 | [Chart](https://www.tradingview.com/chart/?symbol=AMT) | American Tower Corporation | AMT |
+| 18 | 82 | $10.36 | [Chart](https://www.tradingview.com/chart/?symbol=DVAX) | Dynavax Technologies Corporation | DVAX |
+| 23 | 82 | $23.05 | [Chart](https://www.tradingview.com/chart/?symbol=BSJP) | Invesco BulletShares 2025 High Yield Corporate Bond ETF | BSJP |
+| 37 | 82 | $48.04 | [Chart](https://www.tradingview.com/chart/?symbol=EDU) | New Oriental Education and Technology Group, Inc. American Depositary Shares (each representing ten (10) Common Shares) | EDU |
+| 25 | 81 | $161.22 | [Chart](https://www.tradingview.com/chart/?symbol=TRGP) | Targa Resources Corp. | TRGP |
 | 25 | 79 | $45.88 | [Chart](https://www.tradingview.com/chart/?symbol=FTSL) | First Trust Senior Loan Fund ETF | FTSL |
-| 27 | 79 | $162.26 | [Chart](https://www.tradingview.com/chart/?symbol=TRGP) | Targa Resources Corp. | TRGP |
+| 26 | 76 | $14.49 | [Chart](https://www.tradingview.com/chart/?symbol=RDY) | Dr. Reddy's Laboratories Limited American Depositary Shares | RDY |
 | 32 | 76 | $42.34 | [Chart](https://www.tradingview.com/chart/?symbol=WHD) | Cactus, Inc. | WHD |
-| 33 | 76 | $86.66 | [Chart](https://www.tradingview.com/chart/?symbol=TLT) | iShares 20+ Year Treasury Bond ETF | TLT |
-| 30 | 74 | $31.65 | [Chart](https://www.tradingview.com/chart/?symbol=BOX) | BOX, INC. | BOX |
-| 31 | 74 | $11.04 | [Chart](https://www.tradingview.com/chart/?symbol=FPI) | Farmland Partners Inc. | FPI |
-| 34 | 74 | $13.24 | [Chart](https://www.tradingview.com/chart/?symbol=PDBC) | Invesco Actively Managed Exch-Traded Commodity Fd Tr Invesco Optimum Yield Diversified Commodity Strategy No K-1 ETF | PDBC |
-| 37 | 74 | $87.36 | [Chart](https://www.tradingview.com/chart/?symbol=SBUX) | Starbucks Corp | SBUX |
+| 35 | 76 | $86.88 | [Chart](https://www.tradingview.com/chart/?symbol=SBUX) | Starbucks Corp | SBUX |
+| 29 | 75 | $31.52 | [Chart](https://www.tradingview.com/chart/?symbol=BOX) | BOX, INC. | BOX |
+| 30 | 75 | $37.75 | [Chart](https://www.tradingview.com/chart/?symbol=VNO) | Vornado Realty Trust | VNO |
 | 38 | 74 | $22.08 | [Chart](https://www.tradingview.com/chart/?symbol=DBC) | Invesco DB Commodity Index Tracking Fund | DBC |
-| 35 | 73 | $10.88 | [Chart](https://www.tradingview.com/chart/?symbol=BTZ) | BlackRock Credit Allocation Income Trust | BTZ |
+| 32 | 73 | $11.04 | [Chart](https://www.tradingview.com/chart/?symbol=FPI) | Farmland Partners Inc. | FPI |
 | 33 | 72 | $13.56 | [Chart](https://www.tradingview.com/chart/?symbol=NAVI) | Navient Corporation | NAVI |
-| 34 | 72 | $15.89 | [Chart](https://www.tradingview.com/chart/?symbol=NCDL) | Nuveen Churchill Direct Lending Corp | NCDL |
-| 33 | 71 | $134.16 | [Chart](https://www.tradingview.com/chart/?symbol=APO) | Apollo Global Management, Inc. | APO |
-| 36 | 71 | $12.21 | [Chart](https://www.tradingview.com/chart/?symbol=PBR) | PETROLEO BRASILEIRO S.A.-PETROBRAS ADS (REP 1 COMMON SHARE) | PBR |
-| 33 | 70 | $38.08 | [Chart](https://www.tradingview.com/chart/?symbol=VNO) | Vornado Realty Trust | VNO |
-| 35 | 67 | $103.17 | [Chart](https://www.tradingview.com/chart/?symbol=CCI) | Crown Castle Inc. | CCI |
-| 35 | 66 | $49.12 | [Chart](https://www.tradingview.com/chart/?symbol=IP) | International Paper Co. | IP |
+| 36 | 72 | $10.88 | [Chart](https://www.tradingview.com/chart/?symbol=BTZ) | BlackRock Credit Allocation Income Trust | BTZ |
+| 35 | 71 | $15.89 | [Chart](https://www.tradingview.com/chart/?symbol=NCDL) | Nuveen Churchill Direct Lending Corp | NCDL |
+| 34 | 70 | $134.43 | [Chart](https://www.tradingview.com/chart/?symbol=APO) | Apollo Global Management, Inc. | APO |
+| 37 | 70 | $11.36 | [Chart](https://www.tradingview.com/chart/?symbol=GSBD) | Goldman Sachs BDC, Inc. | GSBD |
+| 33 | 67 | $48.92 | [Chart](https://www.tradingview.com/chart/?symbol=IP) | International Paper Co. | IP |
+| 39 | 67 | $12.31 | [Chart](https://www.tradingview.com/chart/?symbol=PBR) | PETROLEO BRASILEIRO S.A.-PETROBRAS ADS (REP 1 COMMON SHARE) | PBR |
+| 36 | 66 | $103.24 | [Chart](https://www.tradingview.com/chart/?symbol=CCI) | Crown Castle Inc. | CCI |
 
 ## **Methodology**
 
